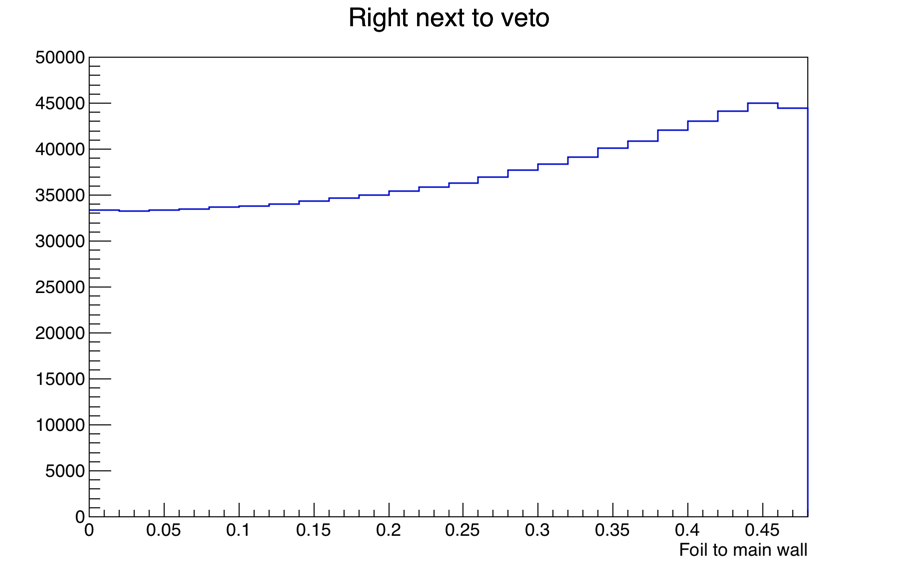
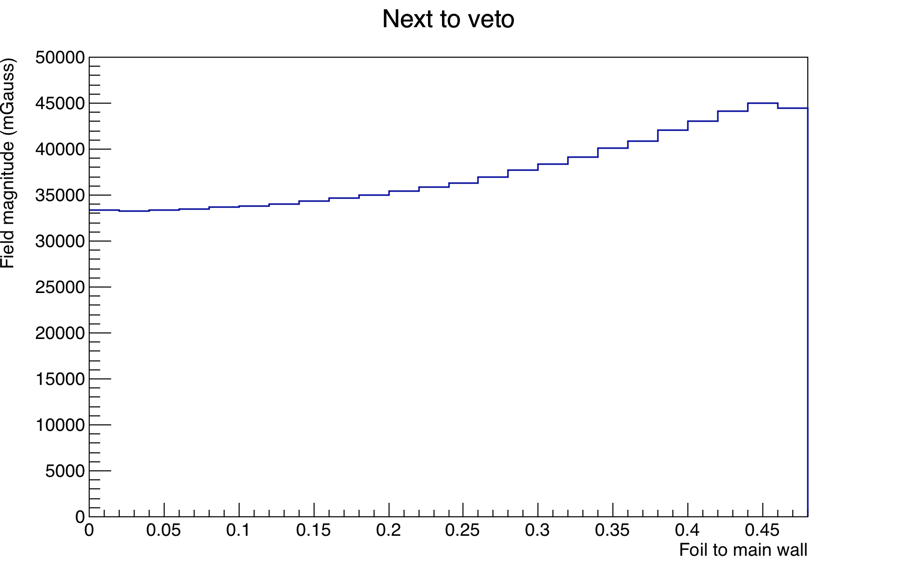
Tidy up the code

diff --git a/parseFieldMap.cpp b/parseFieldMap.cpp
@@ -1,6 +1,12 @@
 #include <iostream>
 #include <fstream>
 string GetBitBeforeComma(string& input);
+TH1D *MakeFieldProjection(TH3D *plot3d, int zbin, string title, int color);
+
+string xtitle="Centre to xwall";
+string ytitle="Along wires to vetos";
+string ztitle="Foil to main wall";
+
 
 void parseFieldMap()
 {
@@ -18,10 +24,7 @@ void parseFieldMap()
     int ny=std::stoi(GetBitBeforeComma(line));
     int nz=std::stoi(GetBitBeforeComma(line));
     
-    
-    string xtitle="Centre to xwall";
-    string ytitle="Along wires to vetos";
-    string ztitle="Foil to main wall";
+
     
     TCanvas *c=new TCanvas("c","c",900,600);
     
@@ -97,57 +100,27 @@ void parseFieldMap()
     // In these coordinates we want a slice in z
     // And then we will take slices in z at various "y" values (our z, ie along the wires)
     
-    TH1D *y0 = totalfield->ProjectionZ("centre",1,1,1,1);
-    y0->GetYaxis()->SetRangeUser(0,50000);
-    y0->GetXaxis()->SetTitle(ztitle.c_str());
-    y0->SetTitle("Centre of detector");
-    y0->SetLineColor(kRed+2);
-    y0->SetLineWidth(3);
+    TH1D *y0 =MakeFieldProjection(totalfield, 1, "Centre of detector", kRed+2);
     y0->Draw();
     c->SaveAs("detector_centre.png");
     
-    TH1D *y50 = totalfield->ProjectionZ("HalfMetre",1,1,25,25);
-    y50->GetYaxis()->SetRangeUser(0,50000);
-    y50->GetXaxis()->SetTitle(ztitle.c_str());
-    y50->SetTitle("50 cm above centre");
-    y50->SetLineColor(kPink-2);
-    y50->SetLineWidth(3);
+    TH1D *y50 =MakeFieldProjection(totalfield, 25, "50 cm above centre", kPink-2);
     y50->Draw();
     c->SaveAs("offset_50cm.png");
     
-    TH1D *y1 = totalfield->ProjectionZ("Metre1",1,1,50,50);
-    y1->GetYaxis()->SetRangeUser(0,50000);
-    y1->GetXaxis()->SetTitle(ztitle.c_str());
-    y1->SetTitle("1 metre above centre");
-    y1->SetLineColor(kMagenta+1);
-    y1->SetLineWidth(3);
+    TH1D *y1 =MakeFieldProjection(totalfield, 50, "1m above centre", kMagenta+1);
     y1->Draw();
     c->SaveAs("offset_1_metre.png");
     
-    TH1D *y150 = totalfield->ProjectionZ("OneAndHalfMetre",1,1,75,75);
-    y150->GetYaxis()->SetRangeUser(0,50000);
-    y150->GetXaxis()->SetTitle(ztitle.c_str());
-    y150->SetTitle("150 cm above centre");
-    y150->SetLineColor(kViolet-3);
-    y150->SetLineWidth(3);
+    TH1D *y150 =MakeFieldProjection(totalfield, 75, "1.5m above centre", kViolet-3);
     y150->Draw();
     c->SaveAs("offset_150cm.png");
     
-    TH1D *y18 = totalfield->ProjectionZ("Cm180",1,1,90,90);
-    y18->GetYaxis()->SetRangeUser(0,50000);
-    y18->GetXaxis()->SetTitle(ztitle.c_str());
-    y18->SetTitle("1.8 metres above centre (very close to veto)");
-    y18->SetLineColor(kBlue-7);
-    y18->SetLineWidth(3);
+    TH1D *y18 =MakeFieldProjection(totalfield, 90, "1.8m above centre", kBlue-7);
     y18->Draw();
     c->SaveAs("offset_1_8_metres.png");
     
-    TH1D *yveto = totalfield->ProjectionZ("ByVeto",1,1,96,96);
-    yveto->GetYaxis()->SetRangeUser(0,50000);
-    yveto->GetXaxis()->SetTitle(ztitle.c_str());
-    yveto->SetTitle("Right next to veto");
-    yveto->SetLineColor(kBlue+1);
-    yveto->SetLineWidth(3);
+    TH1D *yveto =MakeFieldProjection(totalfield, 96, "Next to veto", kBlue+2);
     yveto->Draw();
     c->SaveAs("offset_veto.png");
     
@@ -160,7 +133,7 @@ void parseFieldMap()
     yveto->Draw("SAME");
     c->SetTitle("Field at different heights");
     
-    TLegend *leg=new TLegend(0.6,0.4,0.85,0.7); // Add a legend
+    TLegend *leg=new TLegend(0.7,0.4,0.9,0.7); // Add a legend
     leg->AddEntry(y0, "Centre","l");
     leg->AddEntry(y50,"50cm from centre","l");
     leg->AddEntry(y1,"1m from centre","l");
@@ -197,4 +170,16 @@ string GetBitBeforeComma(string& input)
     input=input.substr(pos+1);
   }
   return output;
+}
+
+TH1D *MakeFieldProjection(TH3D *plot3d, int zbin, string title, int color)
+{
+  TH1D *plot= plot3d->ProjectionZ(title.c_str(),1,1,zbin,zbin);
+  plot->GetYaxis()->SetRangeUser(0,50000);
+  plot->GetXaxis()->SetTitle(ztitle.c_str());
+  plot->GetYaxis()->SetTitle("Field magnitude (mGauss)");
+  plot->SetTitle(title.c_str());
+  plot->SetLineColor(color);
+  plot->SetLineWidth(3);
+  return plot;
 }
